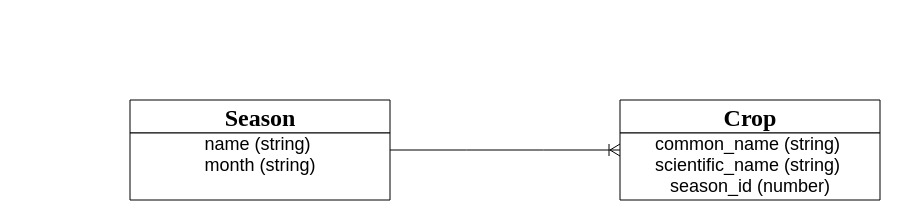
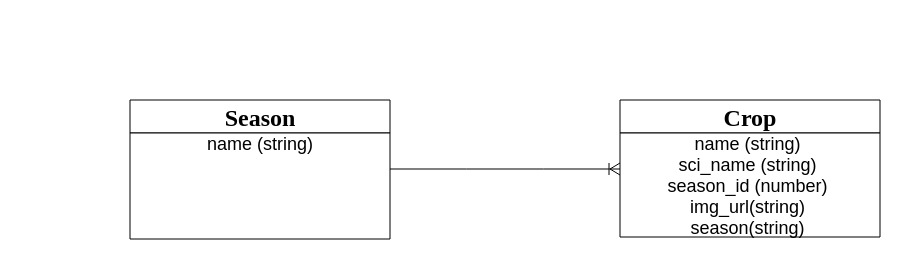
updated readme and ERD

Changed region(s): [[0.4346, 0.3818, 0.9933, 0.9273], [0.1242, 0.3818, 0.4346, 0.7909], [0.1242, 0.9, 0.4346, 0.9273]]

diff --git a/app/controllers/crops_controller.rb b/app/controllers/crops_controller.rb
@@ -30,7 +30,7 @@ class CropsController < ApplicationController
   def destroy
     @crop = Crop.find(params[:id])
     @crop.destroy
-    redirect_to crops_path
+    redirect_to crops_url
   end
 
   private

diff --git a/planning/user_stories.md b/planning/user_stories.md
@@ -1,17 +1,17 @@
 User Stories
 
 --> Users can:
-    --> See annual planting guide on main page
-      --> Link to list of all crops on main page (where? from nav bar?)
+      --> Link to list of all crops on main page
       --> Access Nav bar containing links to seasons and crops indices on main page
         --> Navigate to Seasons page
           --> See complete list of seasons
           --> Choose individual season to see crops associated
         --> Navigate to Crops page
           --> See complete list of crops
-          --> Choose individual crop to see common name, scientific name, associated season
-    --> Add new crops
-    --> Edit existing crop entries
+          --> Choose individual crop to see common name, associated season, and image
+          --> Add new crops
+          --> Edit existing crop entries
+    (--> Add annual season guide link to main page)
     (--> Extra: add recipes based on crop)
     (--> Extra: add Region model)
     (--> Extra: ask user for current month; based on month and Region (limit to US), suggest crops to grow...will consult/edit ERD to see how that will work...)

diff --git a/README.md b/README.md
@@ -1,6 +1,6 @@
 # SowGood: A Seasonal Planting Guide
 
-My app will allow users to create/read/update/delete basic crop data, based on seasons of the year.  This app is based on a two-model system, Season and Crop.  Seasons have crops, and crops belong to seasons.
+My app will allow users to create/read/update basic crop data, based on seasons of the year.  This app is based on a two-model system, Season and Crop.  Seasons have crops, and crops belong to seasons.
 
 The idea for this app came from my desire to have in one place (and on a small scale) information on appropriate food crops to plant based on the time of year (herbs, veg, fruits).  With further modification, I would like to allow the user to enter location information that will further refine the data returned when queried (or "auto detect", if possible).  The ability to save user data and access recipes would be nice, too.  For now, all data are based on generalized location information for the Eastern U.S.
 
